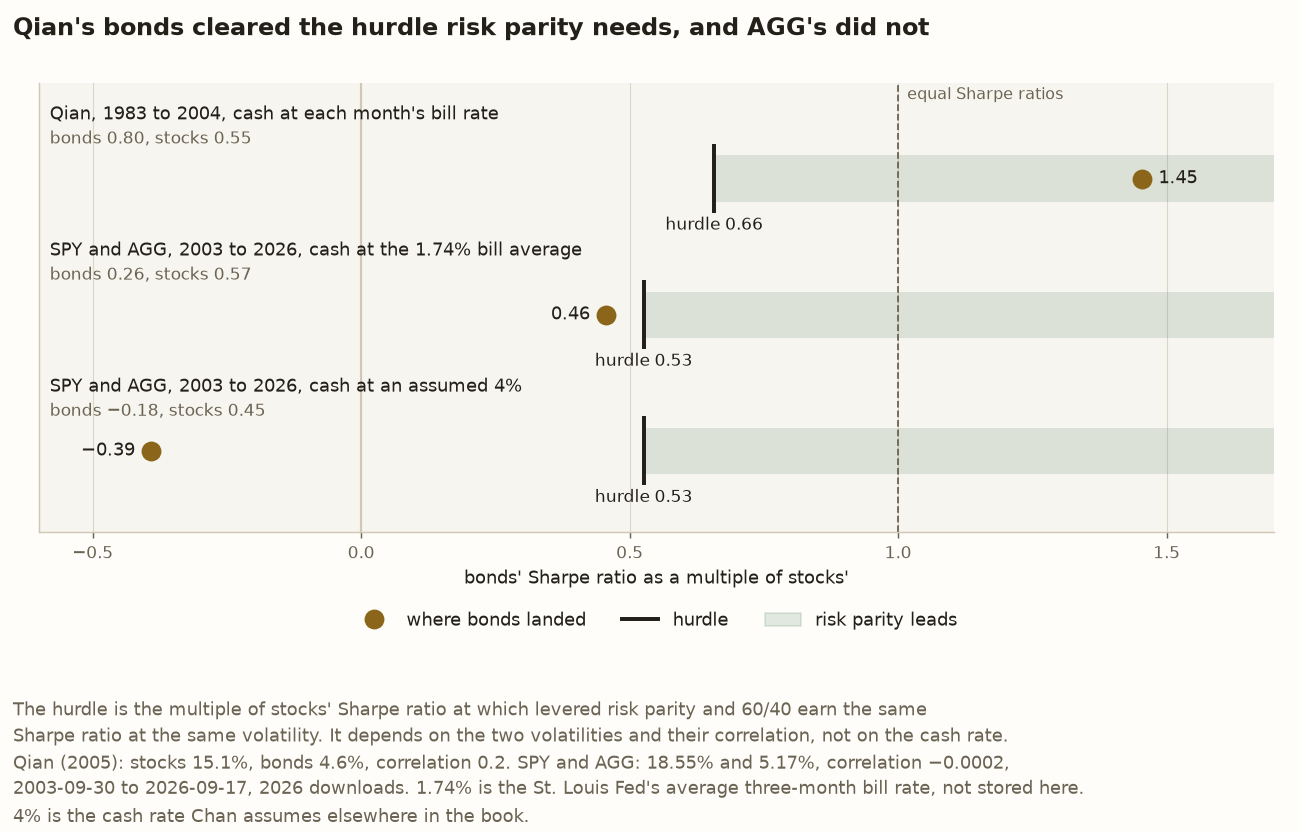
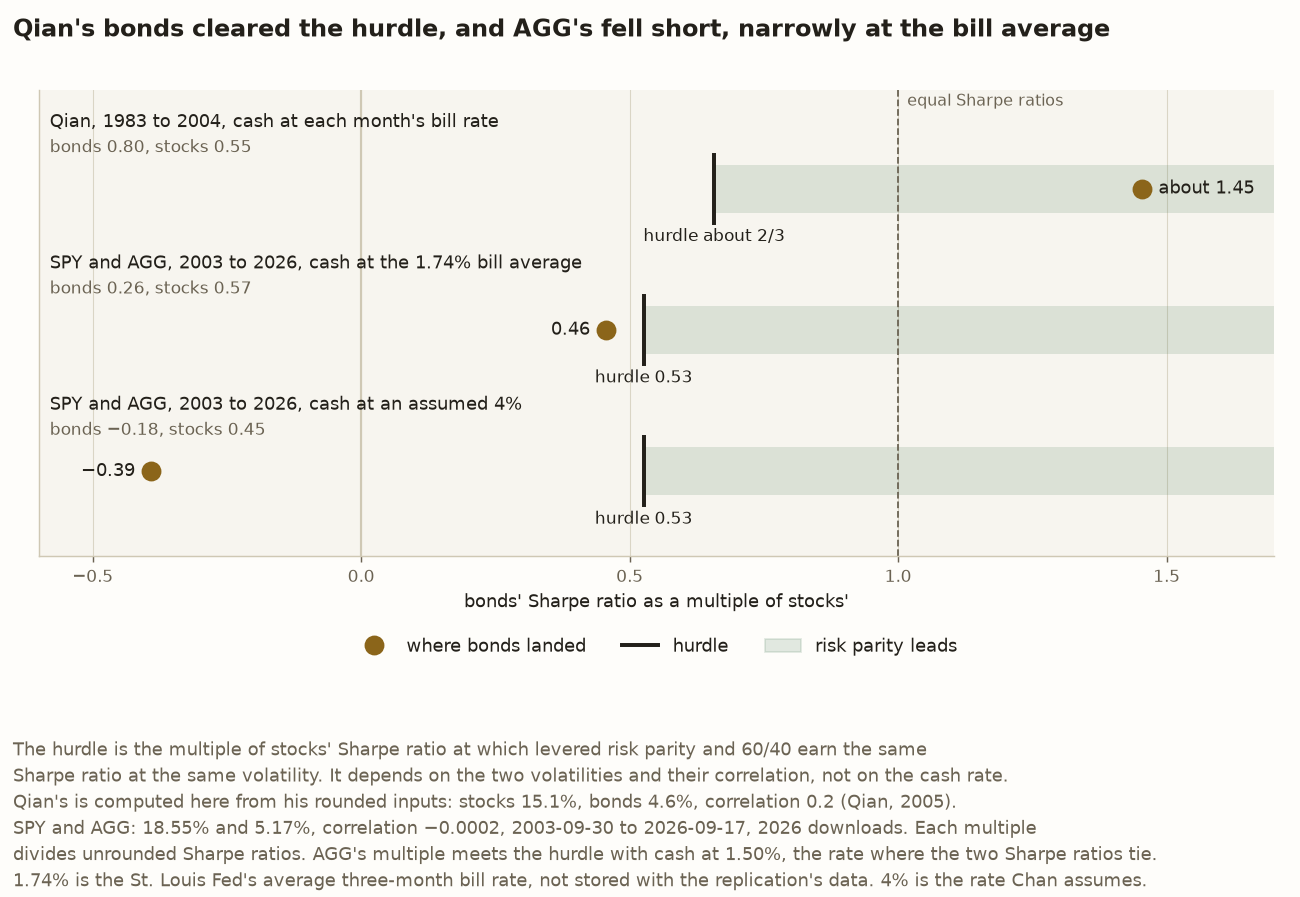
fix(figures): apply the review of the Lesson 2 figure
Three reviewers looked at the hurdle figure. None found a wrong number.
What survived:

- The title said AGG's bonds did not clear the hurdle as if that were
  settled. Which side they land on depends on the cash rate, and they
  miss by under a tenth of stocks' Sharpe ratio at the bill average. The
  title now says they fell short, narrowly at the bill average, and the
  note gives the 1.50% at which they would meet it, which a new
  hurdle_rate computes and a test ties to the pinned tie rate.
- Qian's hurdle and multiple were printed to a second decimal his
  rounded inputs cannot support. They now read about 2/3 and about 1.45,
  and the note says his hurdle is computed here from his rounded inputs.
- The 4% row's -0.39 did not divide out from the rounded Sharpe ratios
  printed above it. The note now says each multiple divides unrounded
  ones.
- "Not stored here" was ambiguous on an image, so both figures now say
  not stored with the replication's data.
- The constants cited the wrong page of Qian's paper, and a test
  docstring described a different benchmark from the one it passed.
- No test ran the redraw command, or held the hurdle ticks' colour, the
  legend's colours, or the zones' size and opacity. Each was a mutation
  that passed. Each now fails a test.
- README lists the funds' Sharpe ratios the figure now pins among the
  checked numbers.

diff --git a/tests/test_risk_parity_figures.py b/tests/test_risk_parity_figures.py
@@ -509,7 +509,7 @@ class TestTheClaimFiguresText:
             "SPY and AGG: 2003-09-30 to 2026-09-17, daily, 2026 downloads. 1.74% is the "
             "St. Louis Fed's average three-month bill rate",
             "(TB3MS) from October 2003 to August 2026, read off the Fed's site and "
-            "not stored here.",
+            "not stored with the replication's data.",
             "4% is the cash rate Chan assumes elsewhere in the book, above what bills "
             "paid on average.",
             "t is the t-statistic of risk parity minus 60/40, corrected for day-to-day dependence "
@@ -599,15 +599,17 @@ def _hurdle_ticks(ax) -> list:
 
 class TestWhatTheHurdleFigureCompares:
     def test_qians_legs_are_the_ones_his_paper_prints(self) -> None:
-        """Volatilities and correlation from the text beside Table 1, Sharpe
-        ratios from Table 2's index columns."""
+        """Volatilities and correlation from page 1, with the volatilities
+        again in Table 2's standard deviation row, and Sharpe ratios from
+        Table 2's index columns."""
         assert (QIAN_STOCK_VOL, QIAN_BOND_VOL, QIAN_CORRELATION) == (0.151, 0.046, 0.2)
         assert (QIAN_SHARPE_STOCK, QIAN_SHARPE_BOND) == (0.55, 0.80)
 
     def test_the_three_rows(self, hurdle_figure) -> None:
         """Qian's hurdle is about two-thirds and this run's about 0.53. His
         bonds earned about 1.45 times stocks' Sharpe ratio, and AGG about 0.46
-        times at the bill average and about −0.39 times at 4%."""
+        times at the bill average and about −0.39 times at 4%. Only Qian's row
+        rests on a source's rounded inputs."""
         rows = hurdle_figure.rows
         assert [row.label for row in rows] == [
             "Qian, 1983 to 2004, cash at each month's bill rate",
@@ -625,6 +627,7 @@ class TestWhatTheHurdleFigureCompares:
             pytest.approx(-0.390912, abs=5e-7),
         ]
         assert [row.clears for row in rows] == [True, False, False]
+        assert [row.approximate for row in rows] == [True, False, False]
 
     def test_this_runs_rows_come_from_the_run(self, hurdle_figure, result) -> None:
         legs = result.legs
@@ -641,11 +644,16 @@ class TestWhatTheHurdleFigureCompares:
         for row, rate in zip(rows[1:], (BILL_AVERAGE, RISK_FREE), strict=True):
             assert row.clears == (full_span_ranking(rate).sharpe_difference > 0)
 
-    def test_the_title_matches_which_rows_clear(self, hurdle_figure) -> None:
+    def test_the_title_matches_which_rows_clear_and_by_how_much(self, hurdle_figure) -> None:
+        """AGG misses by under a tenth of stocks' Sharpe ratio at the bill
+        average, which is what narrowly means here, and by more than 0.9 at 4%."""
         assert hurdle_figure._suptitle.get_text() == (
-            "Qian's bonds cleared the hurdle risk parity needs, and AGG's did not"
+            "Qian's bonds cleared the hurdle, and AGG's fell short, narrowly at the bill average"
         )
-        assert [row.clears for row in hurdle_figure.rows] == [True, False, False]
+        rows = hurdle_figure.rows
+        assert [row.clears for row in rows] == [True, False, False]
+        assert 0 < rows[1].hurdle - rows[1].ratio < 0.1
+        assert rows[2].hurdle - rows[2].ratio > 0.9
 
 
 class TestTheHurdlePanel:
@@ -667,13 +675,16 @@ class TestTheHurdlePanel:
             assert zone.get_x() == pytest.approx(row.hurdle, abs=1e-12)
             assert zone.get_x() + zone.get_width() == pytest.approx(HURDLE_XLIM[1], abs=1e-12)
             assert zone.get_y() < y < zone.get_y() + zone.get_height()
+            assert zone.get_height() < 0.4
             assert _rgb(zone.get_facecolor()) == _rgb(GOOD)
+            assert zone.get_alpha() < 0.5
+            assert _rgb(tick.get_color()) == _rgb(INK)
 
     def test_each_dot_and_hurdle_carries_its_value(self, hurdle_figure) -> None:
         ax = hurdle_figure.axes[0]
         texts = _plain_texts(ax)
         assert [t for t in texts if t.startswith("hurdle")] == [
-            "hurdle 0.66",
+            "hurdle about 2/3",
             "hurdle 0.53",
             "hurdle 0.53",
         ]
@@ -683,8 +694,8 @@ class TestTheHurdlePanel:
         for row, y, label in zip(hurdle_figure.rows, ys, hurdle_labels, strict=True):
             assert label.xy == pytest.approx((row.hurdle, y - 0.24), abs=1e-12)
             assert label.get_va() == "top" and label.xyann[1] < 0
-        values = [t for t in ax.texts if re.fullmatch(r"−?\d\.\d\d", t.get_text())]
-        assert [t.get_text() for t in values] == ["1.45", "0.46", "−0.39"]
+        values = [t for t in ax.texts if re.fullmatch(r"(about )?−?\d\.\d\d", t.get_text())]
+        assert [t.get_text() for t in values] == ["about 1.45", "0.46", "−0.39"]
         for row, label in zip(hurdle_figure.rows, values, strict=True):
             assert label.xy[0] == pytest.approx(row.ratio, abs=1e-12)
             outward = row.ratio >= row.hurdle
@@ -723,6 +734,10 @@ class TestTheHurdlePanel:
             "hurdle",
             "risk parity leads",
         ]
+        dot, tick, zone = legend.legend_handles
+        assert _rgb(dot.get_color()) == _rgb(ACCENT)
+        assert _rgb(tick.get_color()) == _rgb(INK)
+        assert _rgb(zone.get_facecolor()) == _rgb(GOOD)
 
 
 class TestTheHurdleFiguresText:
@@ -733,11 +748,14 @@ class TestTheHurdleFiguresText:
             "and 60/40 earn the same",
             "Sharpe ratio at the same volatility. It depends on the two volatilities and their "
             "correlation, not on the cash rate.",
-            "Qian (2005): stocks 15.1%, bonds 4.6%, correlation 0.2. SPY and AGG: 18.55% and "
-            "5.17%, correlation −0.0002,",
-            "2003-09-30 to 2026-09-17, 2026 downloads. 1.74% is the St. Louis Fed's average "
-            "three-month bill rate, not stored here.",
-            "4% is the cash rate Chan assumes elsewhere in the book.",
+            "Qian's is computed here from his rounded inputs: stocks 15.1%, bonds 4.6%, "
+            "correlation 0.2 (Qian, 2005).",
+            "SPY and AGG: 18.55% and 5.17%, correlation −0.0002, 2003-09-30 to 2026-09-17, "
+            "2026 downloads. Each multiple",
+            "divides unrounded Sharpe ratios. AGG's multiple meets the hurdle with cash at "
+            "1.50%, the rate where the two Sharpe ratios tie.",
+            "1.74% is the St. Louis Fed's average three-month bill rate, not stored with the "
+            "replication's data. 4% is the rate Chan assumes.",
         ]
 
     def test_text_fits_and_nothing_overlaps(self, hurdle_figure) -> None:
@@ -778,3 +796,21 @@ class TestTheHurdleFiguresDefaultDraw:
 
 def test_the_committed_hurdle_figure_exists() -> None:
     assert (FIGURES_DIR / HURDLE_FIGURE).is_file()
+
+
+def test_the_command_writes_all_three_and_says_where(
+    tmp_path, monkeypatch: pytest.MonkeyPatch, capsys: pytest.CaptureFixture[str]
+) -> None:
+    """``main`` is the redraw command README names, so it has to write every
+    committed figure. The save helper lives in ``chan.coin_flip_figures``, so
+    both modules' figure directory is redirected."""
+    import chan.coin_flip_figures as shared
+    import chan.risk_parity_figures as figures
+
+    monkeypatch.setattr(figures, "FIGURES_DIR", tmp_path)
+    monkeypatch.setattr(shared, "FIGURES_DIR", tmp_path)
+    figures.main()
+    out = capsys.readouterr().out
+    for name in (SPLIT_FIGURE, CLAIM_FIGURE, HURDLE_FIGURE):
+        assert f"wrote {tmp_path / name}" in out
+        assert (tmp_path / name).is_file()

diff --git a/src/chan/risk_parity_figures.py b/src/chan/risk_parity_figures.py
@@ -33,6 +33,7 @@ so they redraw anywhere the data is::
 from __future__ import annotations
 
 from dataclasses import dataclass
+from fractions import Fraction
 from pathlib import Path
 
 from matplotlib.figure import Figure
@@ -54,6 +55,7 @@ from chan.risk_parity import (
     Ranking,
     WindowResult,
     bond_sharpe_hurdle,
+    hurdle_rate,
     leg_sharpes,
     measure_window,
     rank_at_matched_volatility,
@@ -72,7 +74,8 @@ QIAN_SHARPE_BENCHMARK = 0.67
 QIAN_SHARPE_PARITY = 0.87
 
 #: Qian's two legs over the same sample, from the same paper. The volatilities
-#: and the correlation are in the text beside Table 1, and the two Sharpe
+#: and the correlation are on page 1, and the volatilities again in Table 2's
+#: standard deviation row. The two Sharpe
 #: ratios are Table 2's Russell 1000 and Lehman Aggregate columns.
 QIAN_STOCK_VOL = 0.151
 QIAN_BOND_VOL = 0.046
@@ -431,7 +434,8 @@ def make_claim_figure(out: Path | None = None, result: WindowResult | None = Non
         "Qian (2005), Table 2: Russell 1000 and Lehman Aggregate, monthly, 1983 to 2004.\n"
         f"{STOCK} and {BOND}: {drawn.start} to {drawn.end}, daily, 2026 downloads. "
         f"{BILL_AVERAGE:.2%} is the St. Louis Fed's average three-month bill rate\n"
-        "(TB3MS) from October 2003 to August 2026, read off the Fed's site and not stored here.\n"
+        "(TB3MS) from October 2003 to August 2026, read off the Fed's site and not stored "
+        "with the replication's data.\n"
         f"{RISK_FREE:.0%} is the cash rate Chan assumes elsewhere in the book, above what bills "
         "paid on average.\n"
         "t is the t-statistic of risk parity minus 60/40, corrected for day-to-day dependence "
@@ -450,6 +454,9 @@ class HurdleRow:
     stock_sharpe: float
     bond_sharpe: float
     hurdle: float
+    #: Whether the inputs are a source's rounded figures, so the hurdle and the
+    #: multiple carry less precision than the arithmetic prints.
+    approximate: bool = False
 
     @property
     def ratio(self) -> float:
@@ -459,6 +466,16 @@ class HurdleRow:
     @property
     def clears(self) -> bool:
         return self.ratio > self.hurdle
+
+    @property
+    def hurdle_text(self) -> str:
+        if self.approximate:
+            return f"hurdle about {Fraction(self.hurdle).limit_denominator(3)}"
+        return f"hurdle {self.hurdle:.2f}"
+
+    @property
+    def ratio_text(self) -> str:
+        return f"about {self.ratio:.2f}" if self.approximate else _signed(self.ratio)
 
 
 def hurdle_rows(result: WindowResult | None = None) -> tuple[HurdleRow, ...]:
@@ -472,6 +489,7 @@ def hurdle_rows(result: WindowResult | None = None) -> tuple[HurdleRow, ...]:
             QIAN_SHARPE_STOCK,
             QIAN_SHARPE_BOND,
             bond_sharpe_hurdle(QIAN_STOCK_VOL, QIAN_BOND_VOL, QIAN_CORRELATION),
+            approximate=True,
         )
     ]
     for label, rate in (
@@ -494,7 +512,7 @@ def make_hurdle_figure(out: Path | None = None, result: WindowResult | None = No
     rows = hurdle_rows(result)
     legs = result.legs
 
-    fig = Figure(figsize=(10, 6.4), dpi=130)
+    fig = Figure(figsize=(10, 6.9), dpi=130)
     fig.patch.set_facecolor(SURFACE)
     ax = fig.subplots()
     _style(ax)
@@ -511,7 +529,7 @@ def make_hurdle_figure(out: Path | None = None, result: WindowResult | None = No
         )
         ax.plot([row.hurdle, row.hurdle], [y - 0.24, y + 0.24], color=INK, lw=2.2, zorder=3)
         ax.annotate(
-            f"hurdle {row.hurdle:.2f}",
+            row.hurdle_text,
             (row.hurdle, y - 0.24),
             xytext=(0, -3),
             textcoords="offset points",
@@ -521,7 +539,7 @@ def make_hurdle_figure(out: Path | None = None, result: WindowResult | None = No
             fontsize=9.5,
         )
         ax.plot([row.ratio], [y], "o", ms=10, color=ACCENT, zorder=4)
-        _side_label(ax, row.ratio, y, _signed(row.ratio), right=row.ratio >= row.hurdle)
+        _side_label(ax, row.ratio, y, row.ratio_text, right=row.ratio >= row.hurdle)
         ax.text(left + 0.02, y + 0.47, row.label, ha="left", va="center", color=INK, fontsize=10)
         ax.text(
             left + 0.02,
@@ -568,18 +586,20 @@ def make_hurdle_figure(out: Path | None = None, result: WindowResult | None = No
 
     _title(
         fig,
-        "Qian's bonds cleared the hurdle risk parity needs, and AGG's did not",
+        "Qian's bonds cleared the hurdle, and AGG's fell short, narrowly at the bill average",
         "The hurdle is the multiple of stocks' Sharpe ratio at which levered risk parity and 60/40 "
         "earn the same\nSharpe ratio at the same volatility. It depends on the two volatilities "
         "and their correlation, not on the cash rate.\n"
-        f"Qian (2005): stocks {QIAN_STOCK_VOL:.1%}, bonds {QIAN_BOND_VOL:.1%}, correlation "
-        f"{QIAN_CORRELATION:g}. {STOCK} and {BOND}: {legs.stock_vol:.2%} and {legs.bond_vol:.2%}, "
-        f"correlation {_signed(legs.correlation, 4)},\n{legs.start} to {legs.end}, 2026 downloads. "
-        f"{BILL_AVERAGE:.2%} is the St. Louis Fed's average three-month bill rate, "
-        "not stored here.\n"
-        f"{RISK_FREE:.0%} is the cash rate Chan assumes elsewhere in the book.",
+        f"Qian's is computed here from his rounded inputs: stocks {QIAN_STOCK_VOL:.1%}, bonds "
+        f"{QIAN_BOND_VOL:.1%}, correlation {QIAN_CORRELATION:g} (Qian, 2005).\n"
+        f"{STOCK} and {BOND}: {legs.stock_vol:.2%} and {legs.bond_vol:.2%}, correlation "
+        f"{_signed(legs.correlation, 4)}, {legs.start} to {legs.end}, 2026 downloads. "
+        "Each multiple\ndivides unrounded Sharpe ratios. AGG's multiple meets the hurdle with "
+        f"cash at {hurdle_rate(legs):.2%}, the rate where the two Sharpe ratios tie.\n"
+        f"{BILL_AVERAGE:.2%} is the St. Louis Fed's average three-month bill rate, not stored "
+        f"with the replication's data. {RISK_FREE:.0%} is the rate Chan assumes.",
     )
-    fig.subplots_adjust(left=0.03, right=0.98, top=0.9, bottom=0.36)
+    fig.subplots_adjust(left=0.03, right=0.98, top=0.9, bottom=0.38)
     fig.rows = rows
     return _save(fig, out, HURDLE_FIGURE)
 

diff --git a/tests/test_risk_parity.py b/tests/test_risk_parity.py
@@ -80,6 +80,7 @@ from chan.risk_parity import (
     clip,
     correlation_from_leverage,
     decompose,
+    hurdle_rate,
     leg_sharpes,
     leverage_from_correlation,
     main,
@@ -1565,13 +1566,16 @@ class TestTheBondSharpeHurdle:
         tie = RISK_FREE - ranking.sharpe_difference / per_unit_rate
         stock, bond = leg_sharpes(result.legs, risk_free=tie)
         assert bond / stock == pytest.approx(_hurdle(result.legs), abs=1e-9)
+        assert hurdle_rate(result.legs) == pytest.approx(tie, abs=1e-12)
+        assert hurdle_rate(result.legs) == pytest.approx(0.014977, abs=5e-7)
 
     def test_the_hurdle_reads_no_cash_rate(self) -> None:
         params = inspect.signature(bond_sharpe_hurdle).parameters
         assert "risk_free" not in params
 
     def test_no_hurdle_exists_where_risk_parity_holds_no_more_bonds(self) -> None:
-        """With bonds as volatile as stocks, risk parity is 50/50 and holds
-        fewer bonds than 60/40's 40% would need it to count for more."""
+        """With bonds as volatile as stocks, risk parity is 50/50. Against a
+        20/80 benchmark, its 50% in bonds is less than the benchmark's 80%,
+        so bonds count for less in risk parity and no hurdle exists."""
         with pytest.raises(ValueError, match="no bond Sharpe ratio"):
             bond_sharpe_hurdle(0.15, 0.15, 0.0, benchmark=(0.2, 0.8))

diff --git a/src/chan/risk_parity.py b/src/chan/risk_parity.py
@@ -628,6 +628,20 @@ def bond_sharpe_hurdle(
     return (stock * stock_vol / benchmark_vol - parity_count) / (parity_count - bond_count)
 
 
+def hurdle_rate(legs: Legs) -> float:
+    """The cash rate at which bonds' Sharpe ratio, as a multiple of stocks', meets the hurdle.
+
+    The hurdle reads no rate, and the multiple does, so this is where the
+    comparison flips. It solves ``(m_bond - r) * s_stock = h * (m_stock - r) * s_bond``
+    for ``r``, and it is the same rate at which the two Sharpe ratios tie,
+    reached through the legs rather than through the portfolios.
+    """
+    hurdle = bond_sharpe_hurdle(legs.stock_vol, legs.bond_vol, legs.correlation)
+    return (legs.bond_mean * legs.stock_vol - hurdle * legs.stock_mean * legs.bond_vol) / (
+        legs.stock_vol - hurdle * legs.bond_vol
+    )
+
+
 def _affine(weights: tuple[float, float], ratio: float) -> tuple[float, float]:
     """A portfolio's variance as ``constant + slope * correlation``, at unit bond volatility.
 

diff --git a/README.md b/README.md
@@ -469,8 +469,7 @@ of its figures are not pinned here.
    leverage, the 0.98 points a year each point off the rate is worth, risk
    parity's Sharpe ratio moving about twice as far as 60/40's per point, and
    the 2.5 points it takes to close the gap, the 8.36% and −0.91% a year above
-   cash and the Sharpe ratios of 0.45 and −0.18 the two funds earn at the 4%
-   rate, the 1.11%, 2.20% and 4.65% the portfolios earn above cash, and the
+   cash, the 1.11%, 2.20% and 4.65% the portfolios earn above cash, and the
    0.71, 0.98 and 0.18 that weight the two funds' Sharpe ratios under a
    correlation near zero, the 0.87 and 0.67 the same arithmetic gives back at
    Qian's inputs, AGG's Sharpe ratio of about −0.46 against SPY's 0.66 in the
@@ -482,9 +481,8 @@ of its figures are not pinned here.
    the three-quarters and 0.12 that split the later period's 0.50 gap between
    the period and the carried weights, and the 0.525 and 0.276 in the inequality
    that sets the hurdle, and the Sharpe gap of about 0.13 for risk parity before
-   2022 at 1.17%, with its t-statistic of +1.11, and the Sharpe ratios of about
-   0.26 for AGG and 0.57 for SPY at the 1.74% bill average, with the 0.44 of
-   the 0.98 difference in bonds' Sharpe ratio that the cash rate accounts for.
+   2022 at 1.17%, with its t-statistic of +1.11, and the 0.44 of the 0.98
+   difference in bonds' Sharpe ratio that the cash rate accounts for.
 3. Averages of the Federal Reserve Bank of St. Louis's monthly three-month bill
    series, TB3MS, downloaded 2026-09-30 and not stored here: 1.74% from October
    2003 to August 2026, 1.17% from October 2003 to February 2022 and 4.18% from
@@ -504,10 +502,11 @@ Sharpe ratio at the 1.74% bill average and at 4%. What its three figures draw
 traces to [tests/test_risk_parity_figures.py](tests/test_risk_parity_figures.py).
 That includes the Sharpe ratios of 0.61 for 60/40 and 0.59 for risk parity at
 the 1.74% bill average, the gap of about 0.02 between them and its t-statistic
-of −0.21, which the second figure draws, and the hurdle of about two-thirds at
-Qian's inputs and his bonds' 1.45 times stocks', which the third draws. Those
-two figures carry Qian's printed numbers, listed in group 1, as cited
-constants.
+of −0.21, which the second figure draws. The third draws the hurdle of about
+two-thirds at Qian's inputs, his bonds' 1.45 times stocks', and the funds'
+Sharpe ratios of 0.45 for SPY and −0.18 for AGG at 4% and of 0.57 and 0.26 at
+the 1.74% bill average. Those two figures carry Qian's printed numbers,
+listed in group 1, as cited constants.
 
 All three figures are drawn from the committed SPY and AGG vintages by
 [src/chan/risk_parity_figures.py](src/chan/risk_parity_figures.py):

diff --git a/blog/risk-parity-against-60-40.md b/blog/risk-parity-against-60-40.md
@@ -99,7 +99,7 @@ At a correlation near zero that is the sum divided by √2. For 60/40, each weig
 
 60/40’s two multipliers add to more than 1 because, with uncorrelated funds, 60/40’s volatility is less than the two funds’ weighted volatilities added together. Stocks’ multiplier sits near 1 because 60/40 is nearly all stock by risk. Subtracting one side from the other, with the unrounded multipliers, shows that risk parity comes out ahead when `0.525 S₂ > 0.276 S₁`, which means bonds’ Sharpe ratio has to be more than about 0.53 times stocks’. AGG’s −0.18 against SPY’s 0.45 falls far short. At Qian’s correlation of 0.2, with his 60/40 volatility of 9.6%, the same arithmetic puts the hurdle at about two-thirds and reproduces his printed 0.87 and 0.67. His bonds’ 0.80 against stocks’ 0.55 clears it easily.
 
-![Three rows on an axis of bonds’ Sharpe ratio as a multiple of stocks’. Qian’s hurdle is 0.66, and his bonds landed at 1.45, inside the zone where risk parity leads. For SPY and AGG the hurdle is 0.53. AGG landed at 0.46 at the 1.74% average bill rate and at −0.39 at an assumed 4% cash rate, both short of it.](../docs/figures/risk_parity_bond_hurdle.png)
+![Three rows on an axis of bonds’ Sharpe ratio as a multiple of stocks’. Qian’s hurdle is about two-thirds, and his bonds landed at about 1.45, inside the zone where risk parity leads. For SPY and AGG the hurdle is 0.53. AGG landed at 0.46 at the 1.74% average bill rate, just short of it, and at −0.39 at an assumed 4% cash rate, far short.](../docs/figures/risk_parity_bond_hurdle.png)
 
 *Each tick is the hurdle, the multiple of stocks’ Sharpe ratio that bonds need for levered risk parity to lead 60/40. Qian’s bonds cleared his by a wide margin. AGG fell just short at the 1.74% bills paid on average and far short at 4%.*
 
